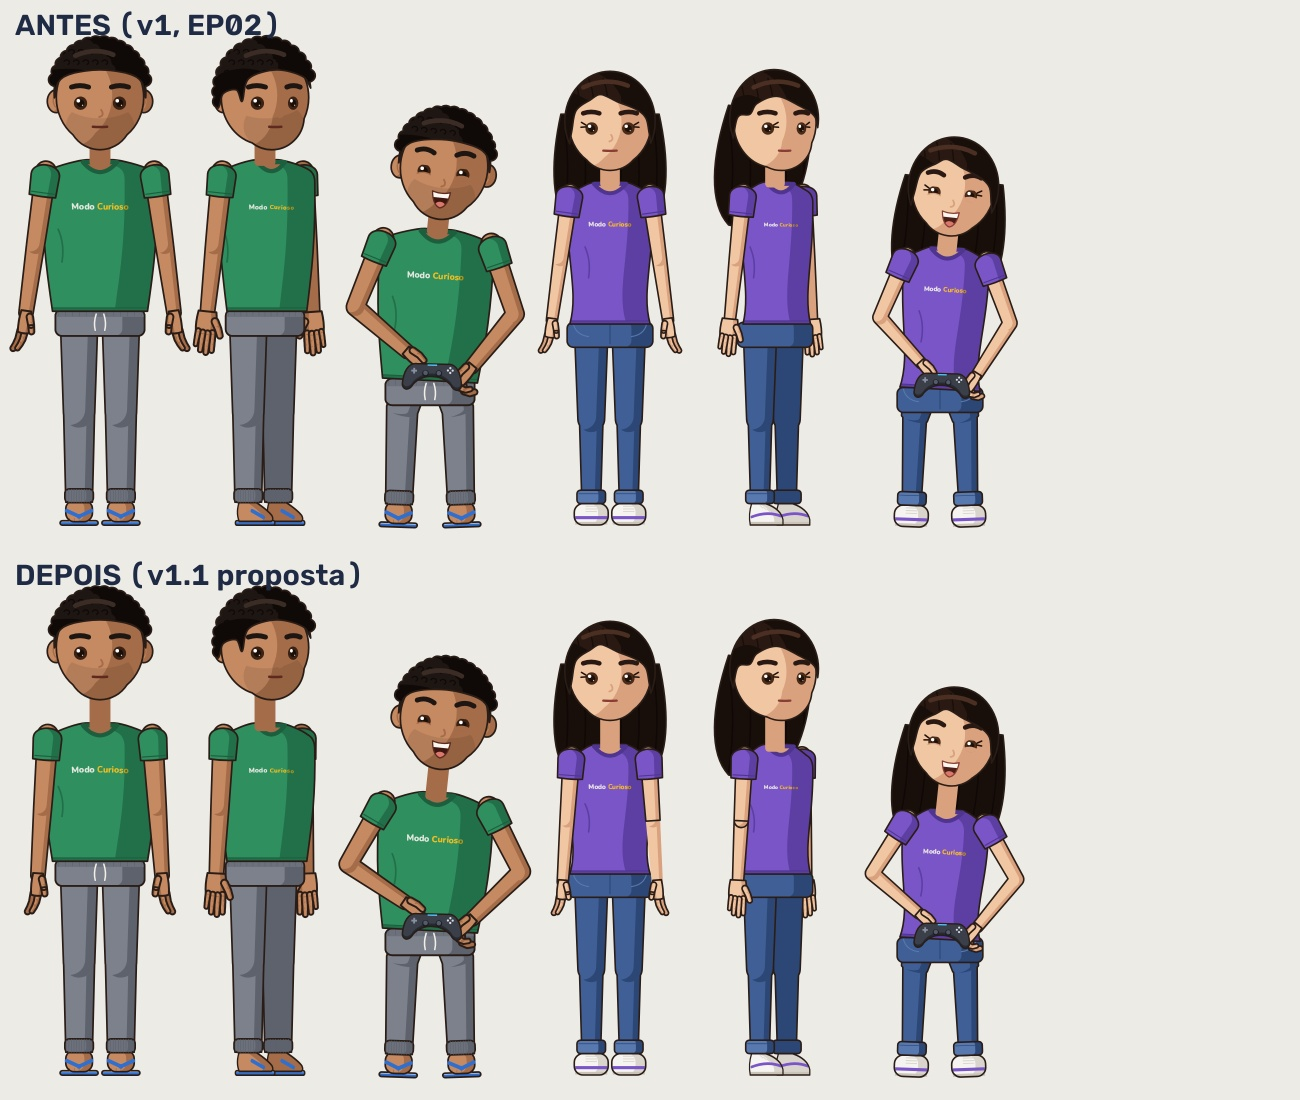
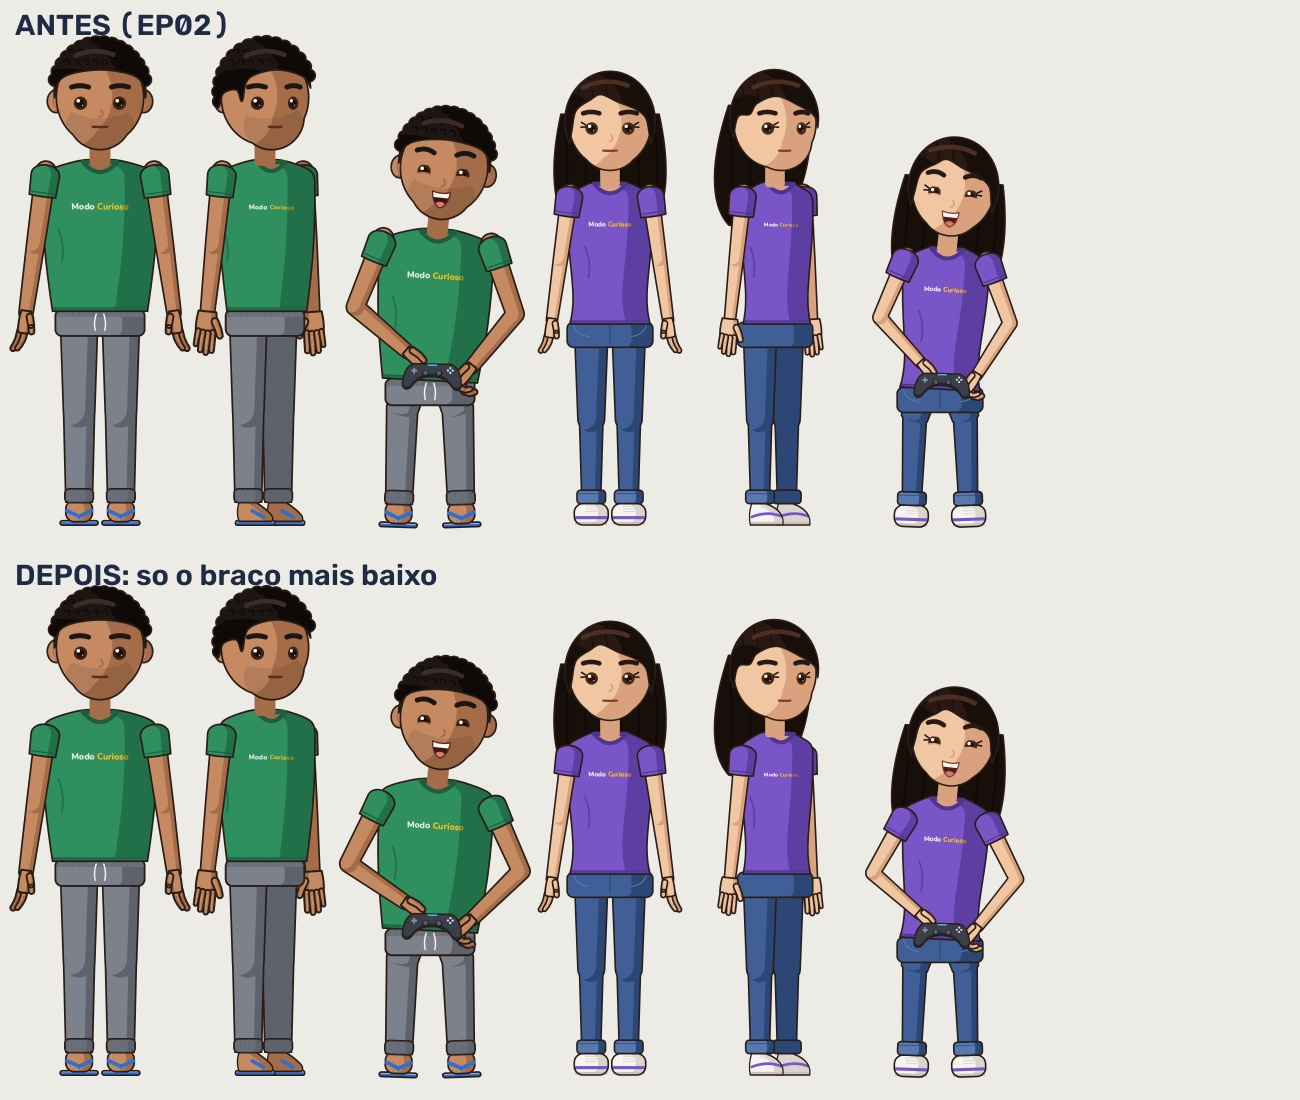
Juca e Jandira v1.1 (proposta revisada): corpo da v1, só o encaixe do braço 0,10 H mais baixo
Claude-Session: https://claude.ai/code/session_011EYkUSqXLaaDeUvLHBExgD

diff --git a/personagens/adultos/rig_adulto.py b/personagens/adultos/rig_adulto.py
@@ -70,7 +70,8 @@ def _aplicar(H, esp):
     H.PROP = mod["proporcoes_H"]; H.OSS = mod["ossos_H"]
     P = H.PROP; L = esp["larguras_H"]
     H._ALT_PELVE = P["barra_camisa"]
-    H.OMBRO_Y = -(P["ombro"] - P["barra_camisa"])
+    H.OMBRO_TRONCO_Y = -(P["ombro"] - P["barra_camisa"])                     # linha do ombro da camiseta (desenho do tronco)
+    H.OMBRO_Y = -(P.get("ombro_braco", P["ombro"]) - P["barra_camisa"])       # v1.1: encaixe do braço um pouco mais baixo
     H.PESCOCO_Y = -(P["pescoco"] - P["barra_camisa"])
     bx, qx = L["braco_x"], L["coxa_x"]
     ab = L.get("braco_ang", 8.0)                      # v1.1: braços mais junto ao corpo em repouso
@@ -94,7 +95,9 @@ def _aplicar(H, esp):
     H.desenhar_mao = desenhar_mao
 
     lb, la, lc, lk = L["braco"], L["antebraco"], L["coxa"], L["canela"]
-    H.forma_braco = lambda: H.capsula(H.OSS["braco"], lb[0], lb[1])
+    def forma_braco():   # o topo arredondado do braço começa um pouco abaixo da junta: fica escondido dentro da manga
+        p = H.capsula(H.OSS["braco"] - 0.06, lb[0], lb[1]); p.offset(0, 0.06); return p
+    H.forma_braco = forma_braco
     H.forma_antebraco = lambda: H.capsula(H.OSS["antebraco"] + 0.02, la[0], la[1])
     H.forma_coxa = lambda: H.capsula(H.OSS["coxa"] + 0.04, lc[0], lc[1])
 
@@ -123,7 +126,7 @@ def _aplicar(H, esp):
 
 # ====================================================================== tronco e quadril
 def _forma_tronco(H, esp, vista):
-    L = esp["larguras_H"]; top, hem = H.OMBRO_Y - 0.1, 0.0
+    L = esp["larguras_H"]; top, hem = H.OMBRO_TRONCO_Y - 0.1, 0.0
     om, ci, ba = L["ombro"], L["cintura"], L["barra"]
     meio = top * 0.45
     p = skia.Path()
@@ -153,7 +156,7 @@ def _forma_tronco(H, esp, vista):
 
 def _desenhar_tronco(H, esp, c, vista, lado_luz, espelhado):
     C = H.C; L = esp["larguras_H"]
-    tr = _forma_tronco(H, esp, vista); top = H.OMBRO_Y - 0.1
+    tr = _forma_tronco(H, esp, vista); top = H.OMBRO_TRONCO_Y - 0.1
     c.drawPath(tr, H.tinta(C["camisa"]))
     if vista in ("frente", "tres_quartos"):
         larg = 0.56 * 0.86 * (2 * L["ombro"] / 0.97) * (H.MOD["estampa"]["tres_quartos"]["compressao"] if vista == "tres_quartos" else 1.0)
@@ -171,7 +174,7 @@ def _desenhar_tronco(H, esp, c, vista, lado_luz, espelhado):
     c.save(); c.clipPath(tr, doAntiAlias=True)
     c.drawLine(b.left(), -0.035, b.right(), -0.035, H.traco(C["gola"], 0.012)); c.restore()
     c.drawPath(tr, H.contorno())
-    OY = H.OMBRO_Y
+    OY = H.OMBRO_TRONCO_Y
     if vista == "frente":
         dec = skia.Path(); dec.moveTo(-0.18, OY - 0.1); dec.quadTo(0, OY + 0.11, 0.18, OY - 0.1); dec.close()
         c.drawPath(dec, H.tinta(C["pele_s"])); c.drawPath(dec, H.traco(C["gola"], 0.045))

diff --git a/personagens/adultos/README.md b/personagens/adultos/README.md
@@ -1,4 +1,4 @@
-# Juca e Jandira — rig adulto (v1 aprovado em 27/11/2026; v1.1 PROPOSTA: ombros mais baixos)
+# Juca e Jandira — rig adulto (v1 aprovado em 27/11/2026; v1.1 PROPOSTA: braço mais baixo)
 
 Personagens do EP02 ("E se a sua namorada te desse um videogame…"). Nomes definidos pelo diretor em 27/11/2026; aparência proposta pelo Claude.
 
@@ -12,9 +12,12 @@ Personagens do EP02 ("E se a sua namorada te desse um videogame…"). Nomes defi
 
 Limitações: o cabelo da Jandira não balança ainda (fica para a animação); as vistas espelhadas trocam o lado da risca do cabelo (mesma limitação do Heitor); o controle de perfil é um desenho frontal comprimido (trapaça 2D).
 
-## v1.1 — PROPOSTA (27/11/2026, pedido do diretor depois do EP02): ombros mais baixos
-"Abaixar um pouco os braços, os ombros estão muito pra cima." Mudanças só de parâmetro (`modelos.json`):
-- ombro 3,72 → 3,58 H; pescoço desce até a gola (`pescoco_baixo` 0,30); trapézio com caimento mais suave (`trapezio` [0,10; 0,25]);
-- braços em repouso mais junto ao corpo (8° → 4°, `braco_ang`) e o encaixe do ombro 0,02 H mais para dentro.
-Antes × depois: `folhas/proposta_v1_1_ombros_antes_depois.jpg`. Folhas regeneradas com a v1.1; 0 cotovelos invertidos nas poses do EP02.
+## v1.1 — PROPOSTA (27/11/2026, pedido do diretor depois do EP02): só o braço mais baixo
+1ª tentativa (ombro do corpo mais baixo, pescoço mais longo) **recusada pelo diretor: "o antes está melhor, seria somente
+abaixar um pouco mais o braço para o ombro não ficar muito em cima"**. Versão atual da proposta:
+- corpo, pescoço e tronco **iguais à v1 aprovada**;
+- só o **encaixe do braço** desce 0,10 H (`ombro_braco` 3,62 H; a linha do ombro da camiseta continua em 3,72 H): a manga
+  deixa de subir acima da linha do ombro;
+- o topo arredondado do braço começa 0,06 H abaixo da junta (fica escondido dentro da manga).
+Antes × depois: `folhas/proposta_v1_1_ombros_antes_depois.jpg`. Folhas regeneradas; 0 cotovelos invertidos nas poses do EP02.
 Obs.: o EP02 foi renderizado com a v1; renderizar o EP02 de novo agora usaria a v1.1.
